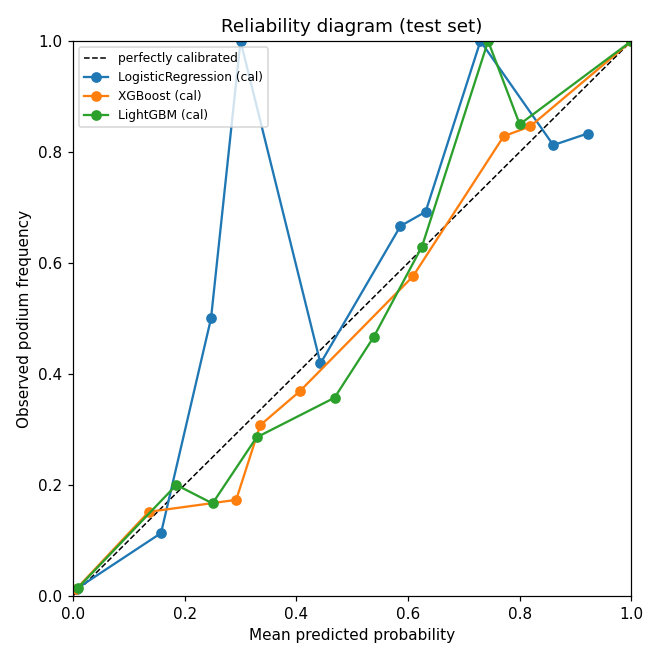
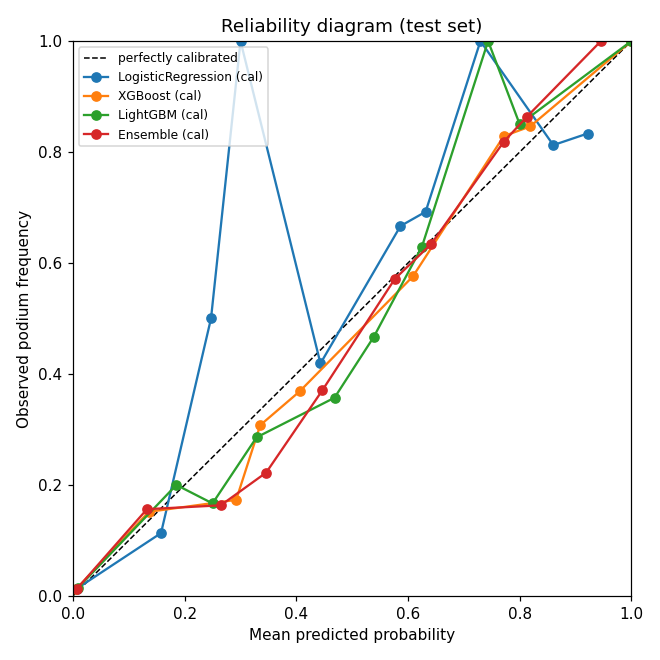
data: phase 1.5 ensemble eval -- XGB+LGBM blend ties XGB, no headroom
XGB and LightGBM were paired-bootstrap-tied on the holdout, so the
textbook follow-up was to average their calibrated probabilities and
check if decorrelated errors buy headroom on the same holdout.

Result: none worth the slot.

  podium                brier_cal
  XGBoost (base best)     0.0616
  Ensemble                0.0618   CI(Ensemble-XGB) [-0.0006, +0.0005]
                                   straddles 0, NOT significant.

  teammate              brier_cal
  LogisticRegression      0.1958   (base best, unchanged)
  Ensemble                0.2020   neither tree beats LogReg, a tree
                                   blend can not fix that.

Honest negative result: XGB+LGBM errors were not decorrelated enough --
they over-fit on similar subspaces of the rich feature table. Stacking,
weighted blends, or a less-correlated third model would be the next
ideas, but at this stage they do not earn a Phase 2 slot. XGB stays
the podium pick, LogReg the teammate pick.

Artefacts: CHANGELOG rows for both Ensembles (plus a re-logged podium
pass that runs against today commit -- same numbers as the previous
podium row), updated reliability plots and prediction parquets with
the Ensemble curves/columns.

diff --git a/models/CHANGELOG.md b/models/CHANGELOG.md
@@ -15,3 +15,8 @@ Format: `YYYY-MM-DD  <model_name>  <git_sha>  Brier=X  ECE=X  Notes`
 | 2026-05-23 | LogisticRegression | 3b682ee | 0.1952 | 0.0337 | Phase 1.4 — rich features (teammate), walk-forward+Optuna (raw probs) |
 | 2026-05-23 | XGBoost | 3b682ee | 0.2009 | 0.0366 | Phase 1.4 — rich features (teammate), walk-forward+Optuna (raw probs) |
 | 2026-05-23 | LightGBM | 3b682ee | 0.2016 | 0.0409 | Phase 1.4 — rich features (teammate), walk-forward+Optuna (raw probs) |
+| 2026-05-23 | LogisticRegression | f068b15 | 0.0649 | 0.0196 | Phase 1.4 — rich features (podium), walk-forward+Optuna (raw probs) |
+| 2026-05-23 | XGBoost | f068b15 | 0.0629 | 0.0247 | Phase 1.4 — rich features (podium), walk-forward+Optuna (raw probs) |
+| 2026-05-23 | LightGBM | f068b15 | 0.0631 | 0.0228 | Phase 1.4 — rich features (podium), walk-forward+Optuna (raw probs) |
+| 2026-05-23 | Ensemble | f068b15 | 0.0629 | 0.0220 | Phase 1.4 — rich features (podium), walk-forward+Optuna (raw probs) |
+| 2026-05-23 | Ensemble | f068b15 | 0.2010 | 0.0349 | Phase 1.4 — rich features (teammate), walk-forward+Optuna (raw probs) |
